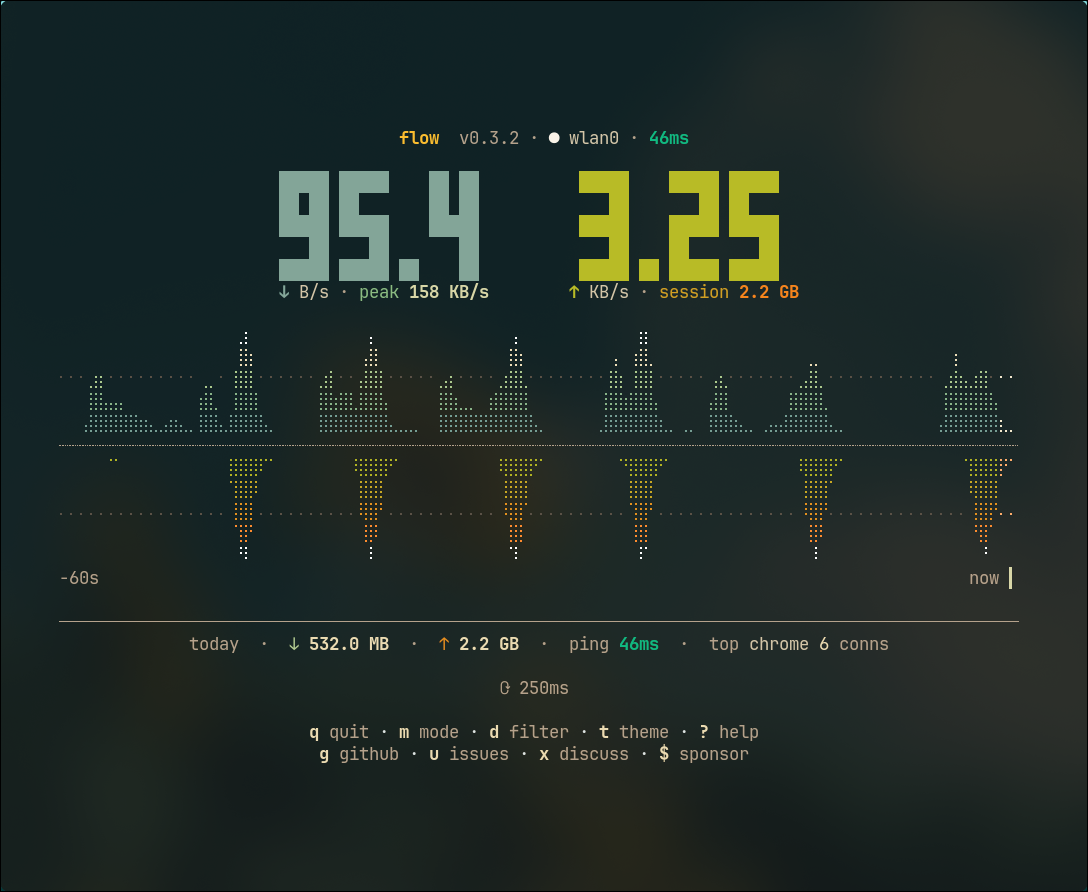
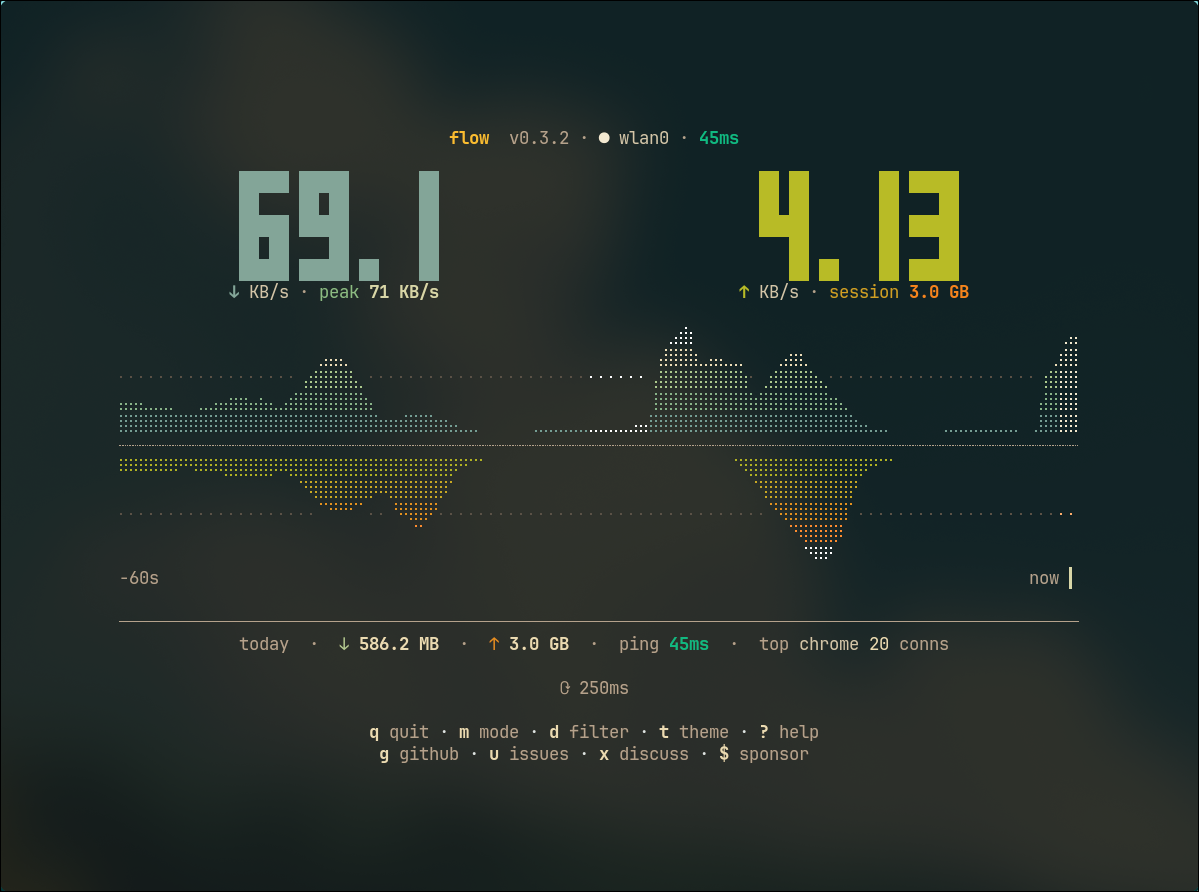
docs: gridlines on by default, header centering

diff --git a/README.md b/README.md
@@ -69,7 +69,7 @@ See [docs/integrations.md](docs/integrations.md) for copy-paste snippets.
 * **Big Block Digits**: 5x5 bitmap hero numbers (timr-tui technique) — chunky enough to read at a glance, tabular so they never jitter
 * **Calm Motion**: Spring-driven value easing, an idle breathing pulse, a burst ripple, a pulsing link dot, a 180ms theme crossfade, and a skippable launch sequence — all disabled by `--no-anim`
 * **Time Windows**: `w` cycles 1m / 5m / 15m / 1h / 24h
-* **Scale Modes**: `S` cycles auto / linear / sqrt; `G` toggles the midpoint gridline (off by default — see below)
+* **Scale Modes**: `S` cycles auto / linear / sqrt; `G` toggles the faint midpoint gridline
 * **Snapshot Export**: `s` writes the current frame as `.ansi` and `.txt`
 * **11 Built-in Themes**: `default`, `nord`, `dracula`, `gruvbox`, `forest`, `monochrome`, `catppuccin`, `tokyo-night`, `rose-pine`, `kanagawa`, `ansi`
 * **Custom TOML Themes**: Load custom color schemes from your config directory (see [docs/themes.md](docs/themes.md))

diff --git a/docs/architecture.md b/docs/architecture.md
@@ -57,12 +57,12 @@ fills upward from the axis, upload fills downward.
 
 ### no chrome over the data
 
-Gridlines and the peak-hold rule were both removed after they rendered as
-visual noise on a filled waveform. Braille color is per-cell (2x4 dots), so a
+The peak-hold rule was removed after it rendered as visual noise on a
+filled waveform. Gridlines stay as a single faint midpoint rule, visible only
+where the wave has no fill. Braille color is per-cell (2x4 dots), so a
 rule can only be drawn through *empty* cells — meaning a reference line behind
-the data is either invisible or a row of stray dots. Scale references are
-better served by the numeric caption than by overlay geometry, so the hero
-view keeps the waveform area clean.
+the data is either invisible or a row of stray dots. The rule therefore stays
+subtle by construction: one faint midpoint dotted line, never over data.
 
 ### hero digits
 
